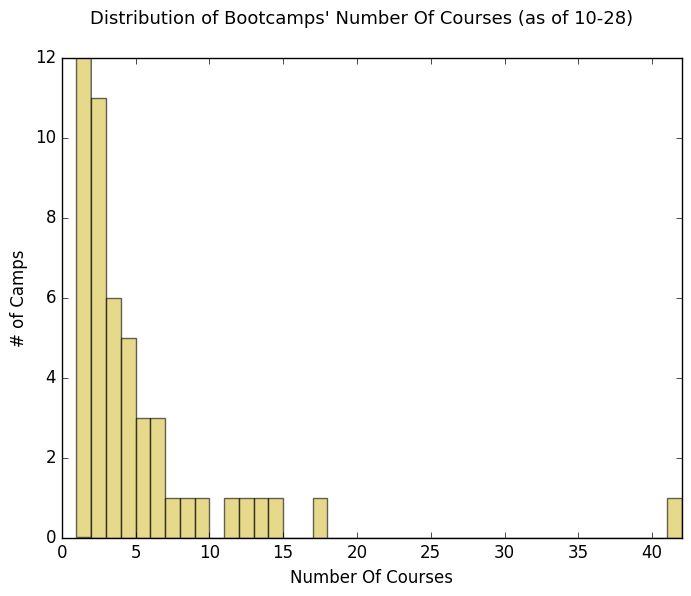
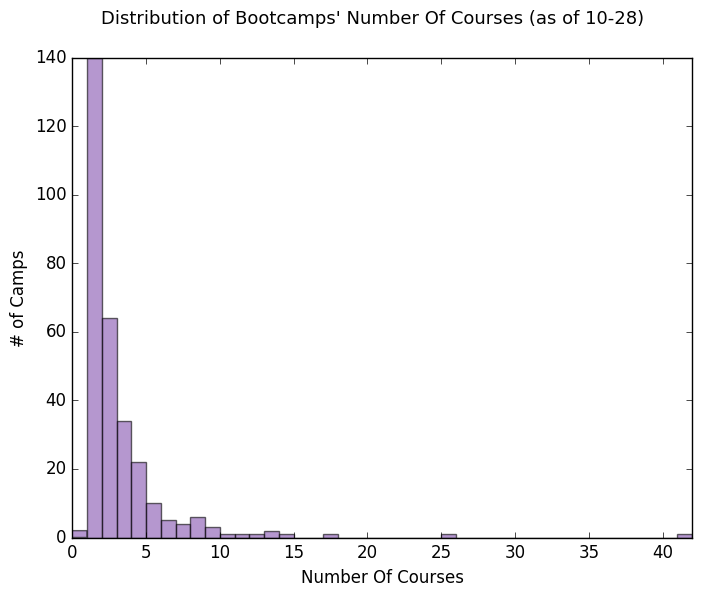
Int sub-categories (for now, essentially just the twitter categories) now functional. As an unexpected part of this, the histogram plotter was adjusted so that for very large range and value categories (i.e. twitter followers range from 50-1,000,000 and basically all have different values), rather t

diff --git a/tracking.py b/tracking.py
@@ -180,11 +180,13 @@ def plot_changes(days_back, category, start_days_back=0, current_status=False, t
         temp_dict['meta'] = meta_entry
         return temp_dict
 
-    def int_check(category, data):
+    def int_check(category, data, child_cat=None):
         out_data = []
         for camp in data.keys():
             if category in data[camp].keys():
                 item = data[camp][category]
+                if child_cat and data[camp][category] and child_cat in data[camp][category].keys():
+                    item = data[camp][category][child_cat]
                 if type(item) is int or type(item) is float:
                     out_data.append(item)
         return out_data
@@ -217,8 +219,19 @@ def plot_changes(days_back, category, start_days_back=0, current_status=False, t
     today_data = filter_data(today_data, filtered_camps)
 
     non_meta_cat = False
-    if len(int_check(category, today_data)) > 0:
-        today_data['meta'][category] = int_check(category, today_data)
+    child_cat = None
+    if type(category) is tuple:
+        child_cat = category[0]
+        category = category[1]
+        
+    if len(int_check(category, today_data, child_cat)) > 0:
+        if child_cat:
+            today_data['meta'][child_cat] = int_check(category, today_data, child_cat)
+            parent_cat = category
+            category = child_cat
+        else:
+            today_data['meta'][category] = int_check(category, today_data)
+            parent_cat = None
         non_meta_cat = True
 
 
@@ -371,16 +384,35 @@ def plot_changes(days_back, category, start_days_back=0, current_status=False, t
     else:
         cat_label = ' '.join(category.split('_')).title()
 
+    if parent_cat:
+        cat_label += ' ({})'.format(parent_cat.title())
+
     import numpy as np
 
     if type(datasets[0]) is list and (type(datasets[0][0]) is int or type(datasets[0][0]) is float):
         if current_status:
-            num_bins = max([int(max(datasets[0]) - min(datasets[0])), len(set(datasets[0]))])
-            n, bins, patches = ax.hist(datasets[0], bins=num_bins, facecolor=np.random.rand(3,1), alpha=0.6)
+            plt.xlim([0,max(datasets[0])])
             plt.xlabel(cat_label)
             plt.ylabel('# of Camps')
-            plt.xlim([0,max(datasets[0])])
             title = "Distribution of Bootcamps' " + str(cat_label) + ' (as of {})'.format(str(date_labels[-1]))
+
+            num_bins = max([int(max(datasets[0]) - min(datasets[0])), len(set(datasets[0]))])
+            if num_bins > 100:
+                from math import ceil
+                max_bin = np.log10(max(datasets[0]))
+                num_bins = np.logspace(0.1, max_bin, 50)
+
+                plt.xlim([1,10*ceil(max_bin)])
+                plt.xscale('log')
+
+                ticks = [int(x) for x in np.logspace(1,ceil(max_bin), ceil(max_bin))]
+                print ticks
+                tick_labels = [str(x) for x in ticks]
+                print tick_labels
+                plt.xticks(ticks, tick_labels)
+
+            n, bins, patches = ax.hist(datasets[0], bins=num_bins, facecolor=np.random.rand(3,1), alpha=0.6)
+
         else:
             def mean(numbers):
                 return round(float(sum(numbers)) / max(len(numbers), 1), 1)

diff --git a/slackbot/testbot.py b/slackbot/testbot.py
@@ -36,7 +36,8 @@ EXAMPLE_COMMAND = "do"
 # instantiate Slack & Twilio clients
 slack_client = SlackClient(os.environ.get('SLACK_BOT_TOKEN'))
 
-plot_list = ['technologies'] + [x[0] for x in term_list if x[1] == 'Category' and x[0] != 'technologies'] + ['Cost','Hours/Week', 'tweets', 'followers']
+sub_course_cats = ['Cost','Hours/Week', 'tweets', 'followers']
+plot_list = ['technologies'] + [x[0] for x in term_list if x[1] == 'Category' and x[0] != 'technologies'] + sub_course_cats
 for cat in ['last_updated', 'twitter', 'accreditation', 'housing', 'cr_technologies', 'visas', 'top_source', 'email', 'website', 'tracking_groups',
 'tracks', 'facebook', 'name', 'job_guarantee', 'courses', 'subjects', 'scholarships', 'su_technologies', 'general_cost', 'cost_estimate',
 'matriculation_stats']:
@@ -296,6 +297,12 @@ def handle_command(command, channel, stored_command_data):
                             text=text, as_user=False, icon_emoji=':question:', username='Info Helper Bot')
 
         plot_cat = stored_command_data['category'][0]
+        if plot_cat in sub_course_cats:
+            for x in term_list:
+                if x[0] == plot_cat:
+                    plot_cat = (x[0], x[1])
+                    break
+        
         if plot_cat == 'technologies' and len(stored_command_data['technologies']) > 0:
             items = stored_command_data['technologies']
         elif plot_cat == 'locations' and len(stored_command_data['locations']) > 0:  
@@ -308,9 +315,7 @@ def handle_command(command, channel, stored_command_data):
         else:
             tgroup_input = stored_command_data['tracking_group']
             
-
         #=====================MAKE PLOT=====================
-        print days_back, plot_cat, c_status, items, tgroup_input
 
         plot_file_name, plot_title = tracking.plot_changes(days_back, plot_cat, current_status=c_status,
             max_items=items, tracking_group=tgroup_input,
@@ -400,8 +405,6 @@ if __name__ == "__main__":
         print("Connection failed. Invalid Slack token or bot ID?")
     search_log.close()
     request_log.close()
-
-
 
     #DOESN'T WORK YET, BUT SHOULD PROMPT A HELP TEXT TO BE SENT
     """if command.startswith('help'):
